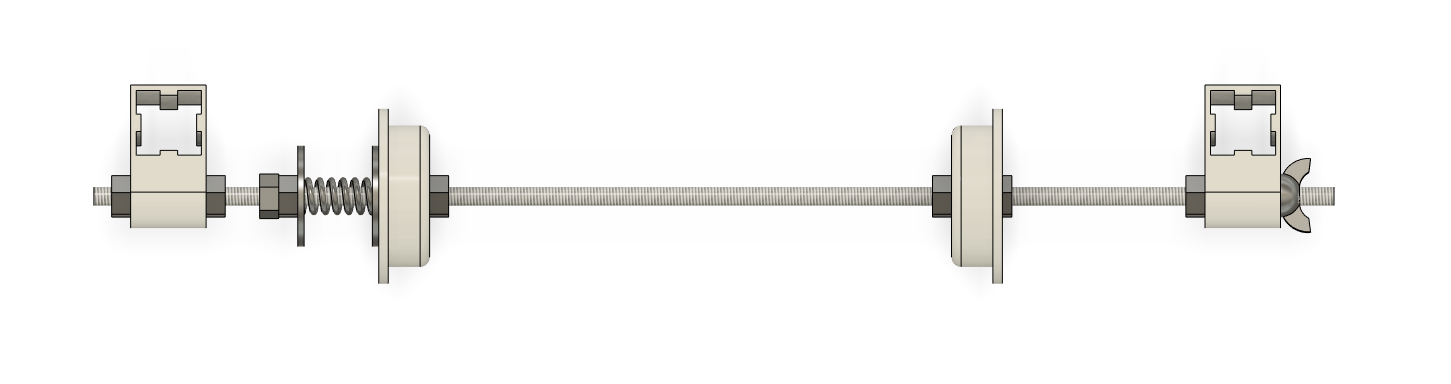
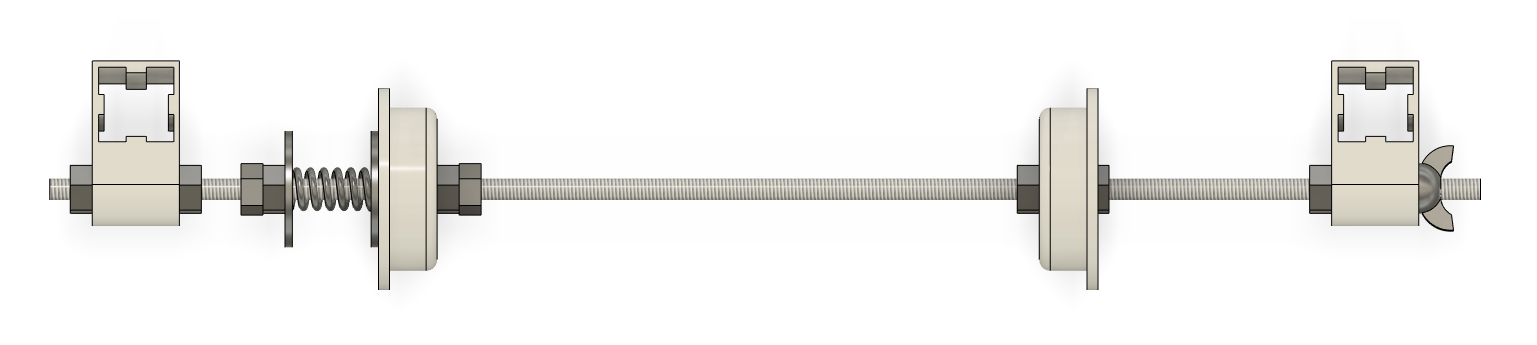
Updated readme, reference image

Changed region(s): [[0.031, 0.1739, 0.9614, 0.8406]]

diff --git a/README.md b/README.md
@@ -86,7 +86,7 @@ Assembly 4 provides an easy way to rotate the threaded rod, by locking the wing 
 The alignment assemblies consist of 1x 1' threaded rod, with the following parts threaded on in sequence, pictured below: 
  - Assembly 1: wing nut - "PaperTowelHolderBrace" - hex nut 
  - Assembly 2: hex nut - "PaperTowelInsertInner" - hex nut 
- - Assembly 3: hex nut - "PaperTowelInsertInner" - fender washer - spring - fender washer - hex nut - hex nut
+ - Assembly 3: hex nut - hex nut - "PaperTowelInsertInner" - fender washer - spring - fender washer - hex nut - hex nut
  - Assembly 4: hex nut - "PaperTowelHolderBrace" - hex nut 
 
 ![Paper towel suspension rod](/DocumentationMedia/PaperTowelRod.png)
